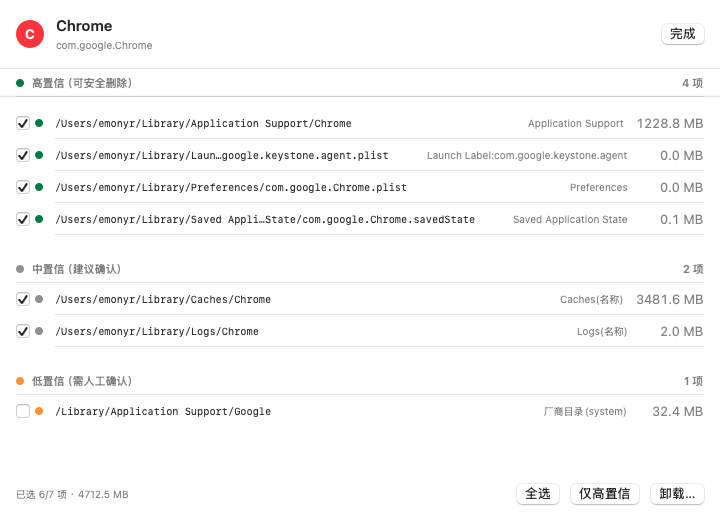
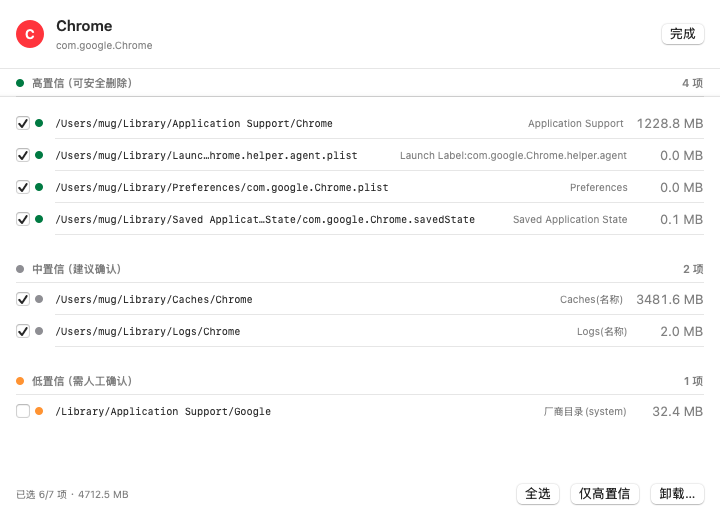
截图脱敏：残留路径改用虚构用户名 /Users/mug，启动项用通用 helper 名

diff --git a/Sources/MugUninstallerKit/LeftoverScanner.swift b/Sources/MugUninstallerKit/LeftoverScanner.swift
@@ -155,15 +155,15 @@ public enum LeftoverScanner {
         return ScanResult(target: name, bundleID: bid, leftovers: items)
     }
 
-    // MARK: - Mock 数据（README 截图用：脱敏残留路径）
+    // MARK: - Mock 数据（README 截图用：路径/内容均脱敏，不出现真实用户名或真实组件名）
 
     static func mockLeftovers(bid: String?, appName name: String) -> ScanResult {
-        let home = NSHomeDirectory()
+        let home = "/Users/mug"   // 虚构用户名，避免泄露真实 home 目录
         let items = [
             Leftover(path: "\(home)/Library/Application Support/Chrome",
                      confidence: .high, reasons: ["Application Support"], sizeKB: 1_258_291),
-            Leftover(path: "\(home)/Library/LaunchAgents/com.google.keystone.agent.plist",
-                     confidence: .high, reasons: ["Launch Label:com.google.keystone.agent"], sizeKB: 1),
+            Leftover(path: "\(home)/Library/LaunchAgents/com.google.Chrome.helper.agent.plist",
+                     confidence: .high, reasons: ["Launch Label:com.google.Chrome.helper.agent"], sizeKB: 1),
             Leftover(path: "\(home)/Library/Preferences/com.google.Chrome.plist",
                      confidence: .high, reasons: ["Preferences"], sizeKB: 24),
             Leftover(path: "\(home)/Library/Saved Application State/com.google.Chrome.savedState",
